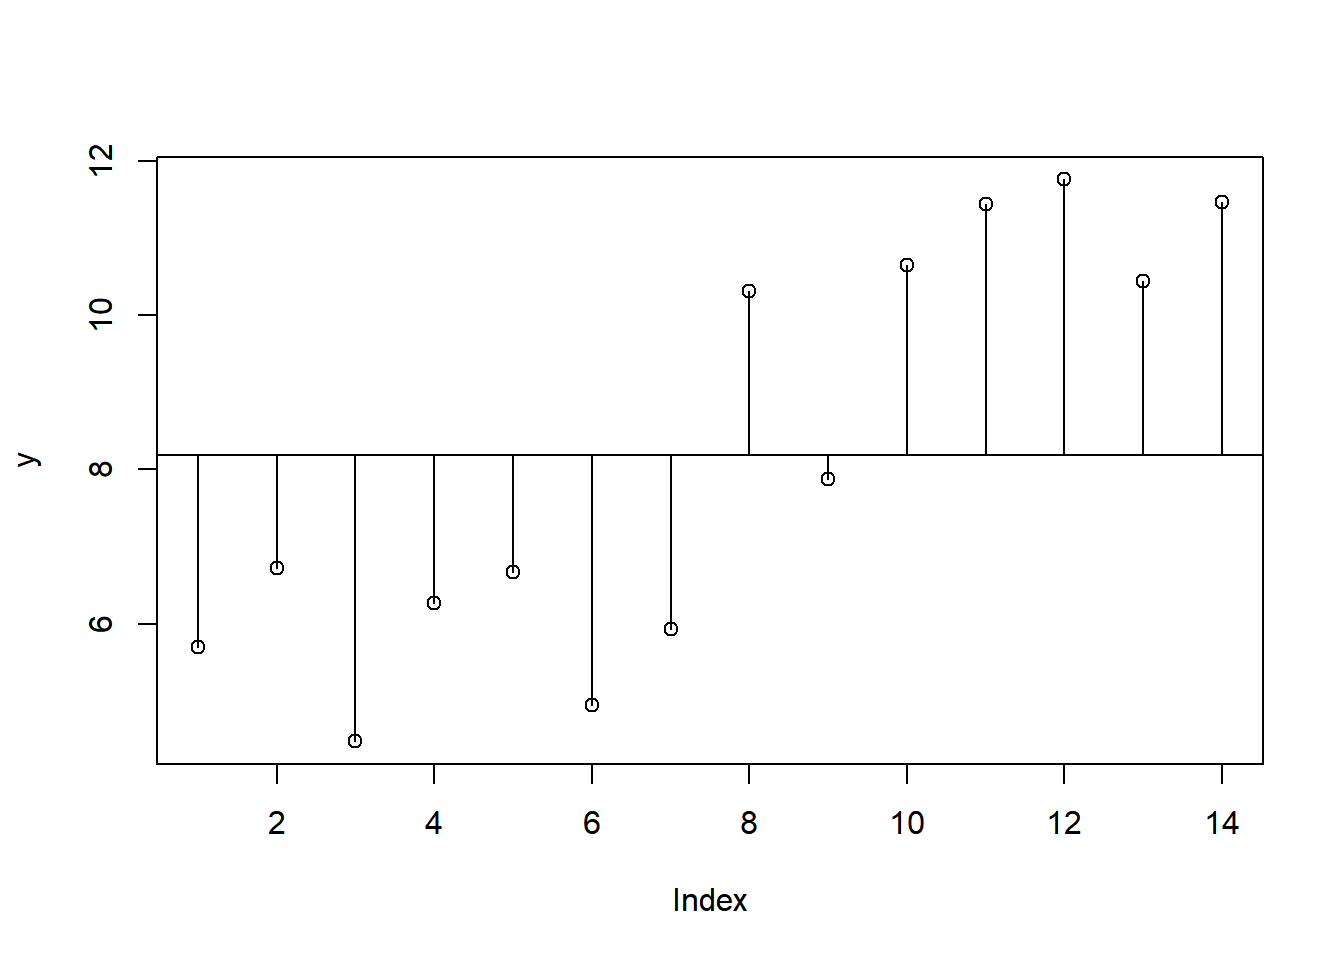
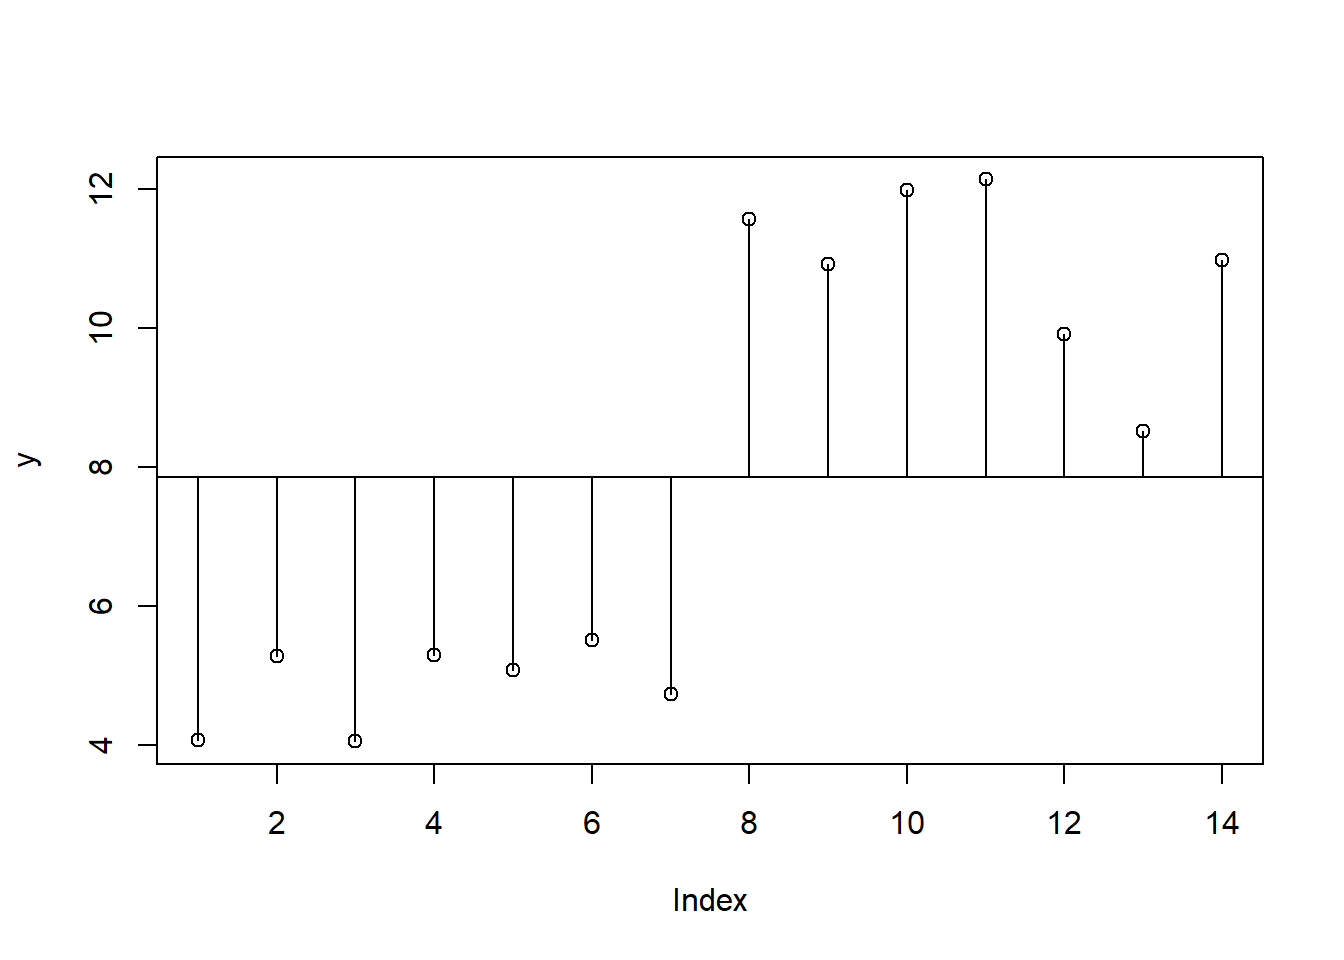
conceptos

diff --git a/Blog/_site/posts/01-concepto-y-modelos-experimentar/index.html b/Blog/_site/posts/01-concepto-y-modelos-experimentar/index.html
@@ -658,7 +658,7 @@ H_0: m_1 = m_2 = m_3 = ... = m_k
 <span id="cb16-2"><a href="#cb16-2" aria-hidden="true" tabindex="-1"></a>dist_med_y</span></code><button title="Copiar al portapapeles" class="code-copy-button"><i class="bi"></i></button></pre></div>
 </details>
 <div class="cell-output cell-output-stdout">
-<pre><code>[1] 93.66855</code></pre>
+<pre><code>[1] 137.859</code></pre>
 </div>
 </div>
 </div>
@@ -673,7 +673,7 @@ H_0: m_1 = m_2 = m_3 = ... = m_k
 </details>
 <div class="cell-output cell-output-stdout">
 <pre><code>        a         b 
- 5.814559 10.565007 </code></pre>
+ 4.866059 10.865034 </code></pre>
 </div>
 </div>
 <p>Grafiquemos esta nueva estructura de datos.</p>
@@ -711,7 +711,7 @@ H_0: m_1 = m_2 = m_3 = ... = m_k
 <span id="cb21-4"><a href="#cb21-4" aria-hidden="true" tabindex="-1"></a>dist_med_s</span></code><button title="Copiar al portapapeles" class="code-copy-button"><i class="bi"></i></button></pre></div>
 </details>
 <div class="cell-output cell-output-stdout">
-<pre><code>[1] 14.68491</code></pre>
+<pre><code>[1] 11.90209</code></pre>
 </div>
 </div>
 </div>
@@ -755,7 +755,7 @@ H_0: m_1 = m_2 = m_3 = ... = m_k
 <span id="cb24-3"><a href="#cb24-3" aria-hidden="true" tabindex="-1"></a>dist_med_s_y</span></code><button title="Copiar al portapapeles" class="code-copy-button"><i class="bi"></i></button></pre></div>
 </details>
 <div class="cell-output cell-output-stdout">
-<pre><code>[1] 78.98365</code></pre>
+<pre><code>[1] 125.9569</code></pre>
 </div>
 </div>
 </div>
@@ -789,9 +789,9 @@ Analiza la correspondencia entre los valores y las gráficas que vimos arriba co
 <pre><code>Analysis of Variance Table
 
 Response: y
-          Df Sum Sq Mean Sq F value    Pr(&gt;F)    
-f          1 78.984  78.984  64.543 3.601e-06 ***
-Residuals 12 14.685   1.224                      
+          Df  Sum Sq Mean Sq F value    Pr(&gt;F)    
+f          1 125.957 125.957  126.99 9.709e-08 ***
+Residuals 12  11.902   0.992                      
 ---
 Signif. codes:  0 '***' 0.001 '**' 0.01 '*' 0.05 '.' 0.1 ' ' 1</code></pre>
 </div>
@@ -800,21 +800,21 @@ Signif. codes:  0 '***' 0.001 '**' 0.01 '*' 0.05 '.' 0.1 ' ' 1</code></pre>
 <div class="sourceCode cell-code" id="cb28"><pre class="sourceCode r code-with-copy"><code class="sourceCode r"><span id="cb28-1"><a href="#cb28-1" aria-hidden="true" tabindex="-1"></a>dist_med_y</span></code><button title="Copiar al portapapeles" class="code-copy-button"><i class="bi"></i></button></pre></div>
 </details>
 <div class="cell-output cell-output-stdout">
-<pre><code>[1] 93.66855</code></pre>
+<pre><code>[1] 137.859</code></pre>
 </div>
 <details>
 <summary>Código</summary>
 <div class="sourceCode cell-code" id="cb30"><pre class="sourceCode r code-with-copy"><code class="sourceCode r"><span id="cb30-1"><a href="#cb30-1" aria-hidden="true" tabindex="-1"></a>dist_med_s</span></code><button title="Copiar al portapapeles" class="code-copy-button"><i class="bi"></i></button></pre></div>
 </details>
 <div class="cell-output cell-output-stdout">
-<pre><code>[1] 14.68491</code></pre>
+<pre><code>[1] 11.90209</code></pre>
 </div>
 <details>
 <summary>Código</summary>
 <div class="sourceCode cell-code" id="cb32"><pre class="sourceCode r code-with-copy"><code class="sourceCode r"><span id="cb32-1"><a href="#cb32-1" aria-hidden="true" tabindex="-1"></a>dist_med_s_y </span></code><button title="Copiar al portapapeles" class="code-copy-button"><i class="bi"></i></button></pre></div>
 </details>
 <div class="cell-output cell-output-stdout">
-<pre><code>[1] 78.98365</code></pre>
+<pre><code>[1] 125.9569</code></pre>
 </div>
 </div>
 <div class="cell">
